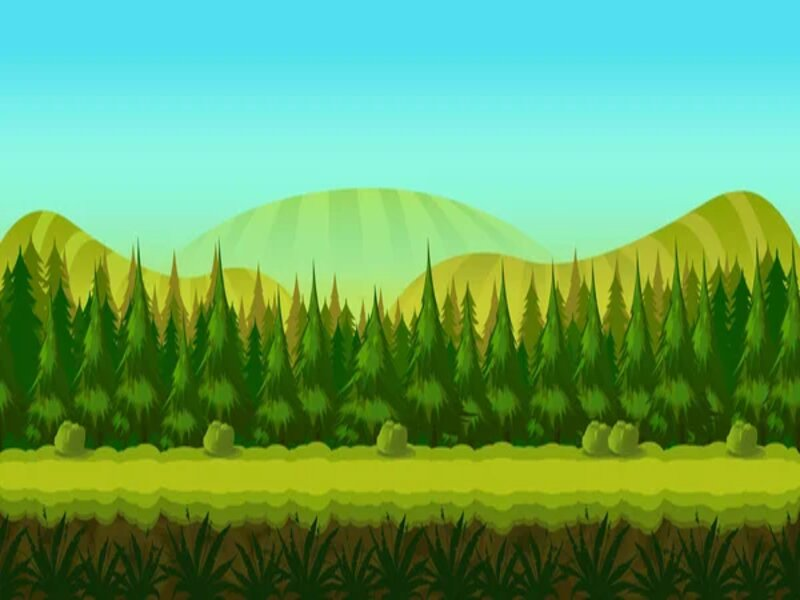
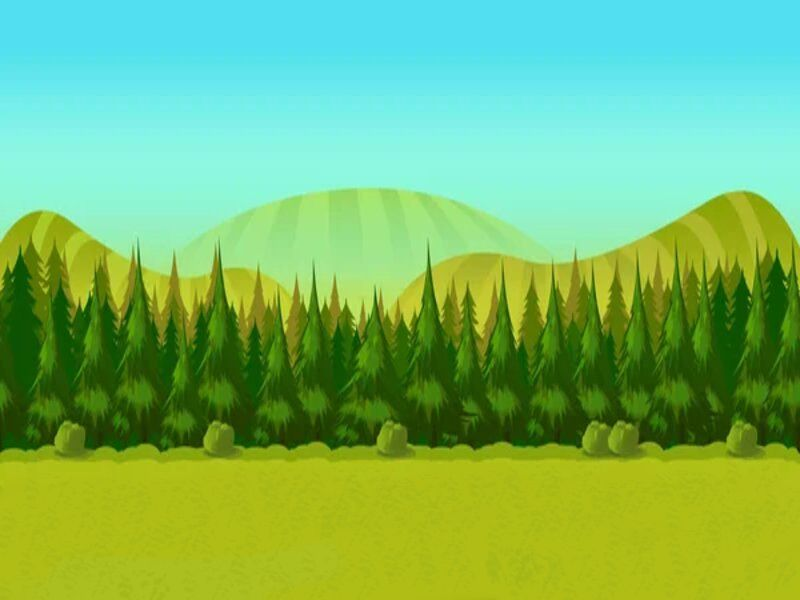
commit quentin sur affichage

Changed region(s): [[0.0, 0.81, 1.0, 1.0]]

diff --git a/libs/Display.py b/libs/Display.py
@@ -1,0 +1,43 @@
+import pygame
+from libs.models import *
+from libs.Turrets import *
+WIDTH, HEIGHT = 800, 600
+SCREEN = pygame.display.set_mode((WIDTH, HEIGHT), pygame.RESIZABLE)
+
+SCREEN.fill('white')
+resize_cannonball = pygame.transform.scale(cannonball, (SCREEN.get_width() / 20, SCREEN.get_height() / 19))
+
+def resize_background ( image ):
+    resized_image = (pygame.transform.scale(image,(SCREEN.get_width(),SCREEN.get_height())))
+    return resized_image
+#ajuste la taille du fond d'écran en fonction de la taille de la fenêtre
+
+def height_ratio () :
+    ratio= SCREEN.get_height() /600
+    return ratio
+
+def width_ratio ():
+    ratio = SCREEN.get_width() / 800
+    return ratio
+def resize_tower (image):
+    new_height = 565 * height_ratio()
+    new_width = 475 * height_ratio()
+    resized_image = (pygame.transform.scale(image,(new_width,new_height)))
+    return resized_image
+
+
+resized_cannonball = pygame.transform.scale(cannonball, (30, 30))
+
+def resize_cannonball(image):
+    resize = pygame.transform.scale(image,(28*height_ratio(),28*height_ratio()))
+    return resize
+
+#SCREEN.blit(tower_1, (-100, SCREEN.get_height()-450 )) #"colle" la tour en bas à gauche de la fenètre
+
+#resized_tower_1 = pygame.transform.scale(tower_1, (SCREEN.get_width() / 1.7, SCREEN.get_height() / 2))
+#fonction affichage continue à développer
+
+#resized_background = pygame.transform.scale(background,(SCREEN.get_width(),SCREEN.get_height()))
+#ajuste la taille du fond d'écran en fonction de la taille de la fenêtre
+
+

diff --git a/libs/Turrets.py b/libs/Turrets.py
@@ -1,5 +1,5 @@
 from libs.models import*
-
+from libs.Display import *
 
 class Turret_Gestion:
     def __init__(self):
@@ -19,7 +19,7 @@ class Turret_Gestion:
 class Turret:
     def __init__(self):
         self.x = 40
-        self.y = 160
+        self.y = 30
         self.name = "Basic"
         self.width = 50
         self.height = 25
@@ -32,7 +32,9 @@ class Turret:
         self.time = 0
 
     def update(self):
-        self.time += 1
+        self.time += 0.5
+        self.x = 40 * width_ratio()
+        self.y = 420 * height_ratio()
         self.firing()
 
     def get_bullet(self):
@@ -43,7 +45,7 @@ class Turret:
             self.bullet.append(Bullet(self.x + self.width + 60, self.y + self.height + 120// 2, self.damage))
 
     def draw(self, screen, dist):
-        screen.blit(pygame.transform.rotate(turret_model,-40.0), (self.x, self.y))
+        screen.blit(turret_model, (self.x, self.y))
         for elm in self.bullet:
             elm.update()
             elm.draw(screen)
@@ -53,7 +55,7 @@ class Turret:
 class Bullet:
     def __init__(self, x, y, damage):
         self.x = x
-        self.y = y
+        self.y = y-40
         self.damage = damage
         self.speed = 10
         self.width = 10
@@ -66,4 +68,4 @@ class Bullet:
 
 
     def draw(self, screen):
-        pygame.draw.rect(screen, (0, 0, 0), self.bullet)
+        screen.blit((resize_cannonball(resized_cannonball)), (self.x, self.y))

diff --git a/libs/enemy.py b/libs/enemy.py
@@ -1,6 +1,6 @@
 import pygame
 import random
-
+from libs.Display import*
 
 class Enemy(pygame.sprite.Sprite):
     def __init__(self, size, health, speed, power, pos, WIDTH, HEIGHT):
@@ -22,7 +22,7 @@ class Enemy(pygame.sprite.Sprite):
     def update(self,WIDTH, HEIGHT):# deplacement de l'ennemi
 
         # déplacement en x
-        if self.rect.x > 100 :
+        if self.rect.x > 170*width_ratio() :
             self.ratio -= self.speed # calcule du déplacement sur un axe de 10000
             self.rect.x = (WIDTH*self.ratio)/10000 # produit en crois pour apliquer la position de l'axe 10000 a la taille de l'écran
 
@@ -71,11 +71,11 @@ def create_wave(wave_number, WIDTH, HEIGHT): # créateur d'énnemies
     return enemies, all_sprites
 
 
-def run_enemy(SCREEN,all_sprites,enemies,wave_number,list_turret): # foction d'exécution du scripte enemy.py
+def run_enemy(SCREEN,all_sprites,enemies,wave_number,list_turret): # fonction d'exécution du scripte enemy.py
     # déplacement des ennemies
-    all_sprites.update(SCREEN.get_width(),SCREEN.get_height())
+    all_sprites.update(SCREEN.get_width(),600 * height_ratio())
 
-    # vérification si les ennemies sont toucher  par une tourelle et si il meurt
+    # vérification si les ennemies sont touchés  par une tourelle et s'il meurt
     if list_turret != []:
         for enemy in enemies:
             for t in list_turret:

diff --git a/main.py b/main.py
@@ -4,6 +4,7 @@ try :
     from libs.Turrets import Turret_Gestion
     from libs.models import *
     from libs.enemy import run_enemy, create_wave
+    from libs.Display import *
 except ImportError:
     print("Erreur lors de l'importation des modules.")
     exit()
@@ -30,7 +31,7 @@ BUTTON_LIST = [B_upg_tower, B_upg_turret]
 turrets = Turret_Gestion()
 
 wave_number = 1
-enemies, all_sprites = create_wave(wave_number)
+enemies, all_sprites = create_wave(wave_number,SCREEN.get_width(),420 * height_ratio() )
 
 # pygame.key.set_repeat(100) # a held key will be counted every 100 milliseconds
 
@@ -52,8 +53,11 @@ while RUNNING:
             if event.key == pygame.K_q :
                 NB_FPS *= 2
 
-    SCREEN.blit(background, (0,0))
-    SCREEN.blit(tower, (-150,150))
+    SCREEN.fill('white')
+    SCREEN.blit(resize_background(background), (0, 0))
+    SCREEN.blit(resize_tower(tower_1), (-100 * width_ratio() / 1.2,
+                                        SCREEN.get_height() - 450 * height_ratio()))  # "colle" la tour en bas à gauche de la fenètre
+    turrets.turrets[0].update()
 
     if PAUSE :
         SCREEN.blit(pygame.font.Font(None, 48).render("PAUSED", True, "Black"),   (WIDTH//2 - 6*12, 10)) # 6 is the length of "PAUSED", 12 is the width of each character

diff --git a/libs/models.py b/libs/models.py
@@ -2,4 +2,5 @@ import pygame
 
 turret_model= pygame.image.load("./assets/reverse_turret_120x120-removebg-preview.png")
 background = pygame.image.load("assets/test_background.jpg")
-tower = pygame.image.load("assets/tour-Photoroom.png")
+tower_1 = pygame.image.load("assets/tour-Photoroom.png")
+cannonball = pygame.image.load("assets/cannonball.png")
